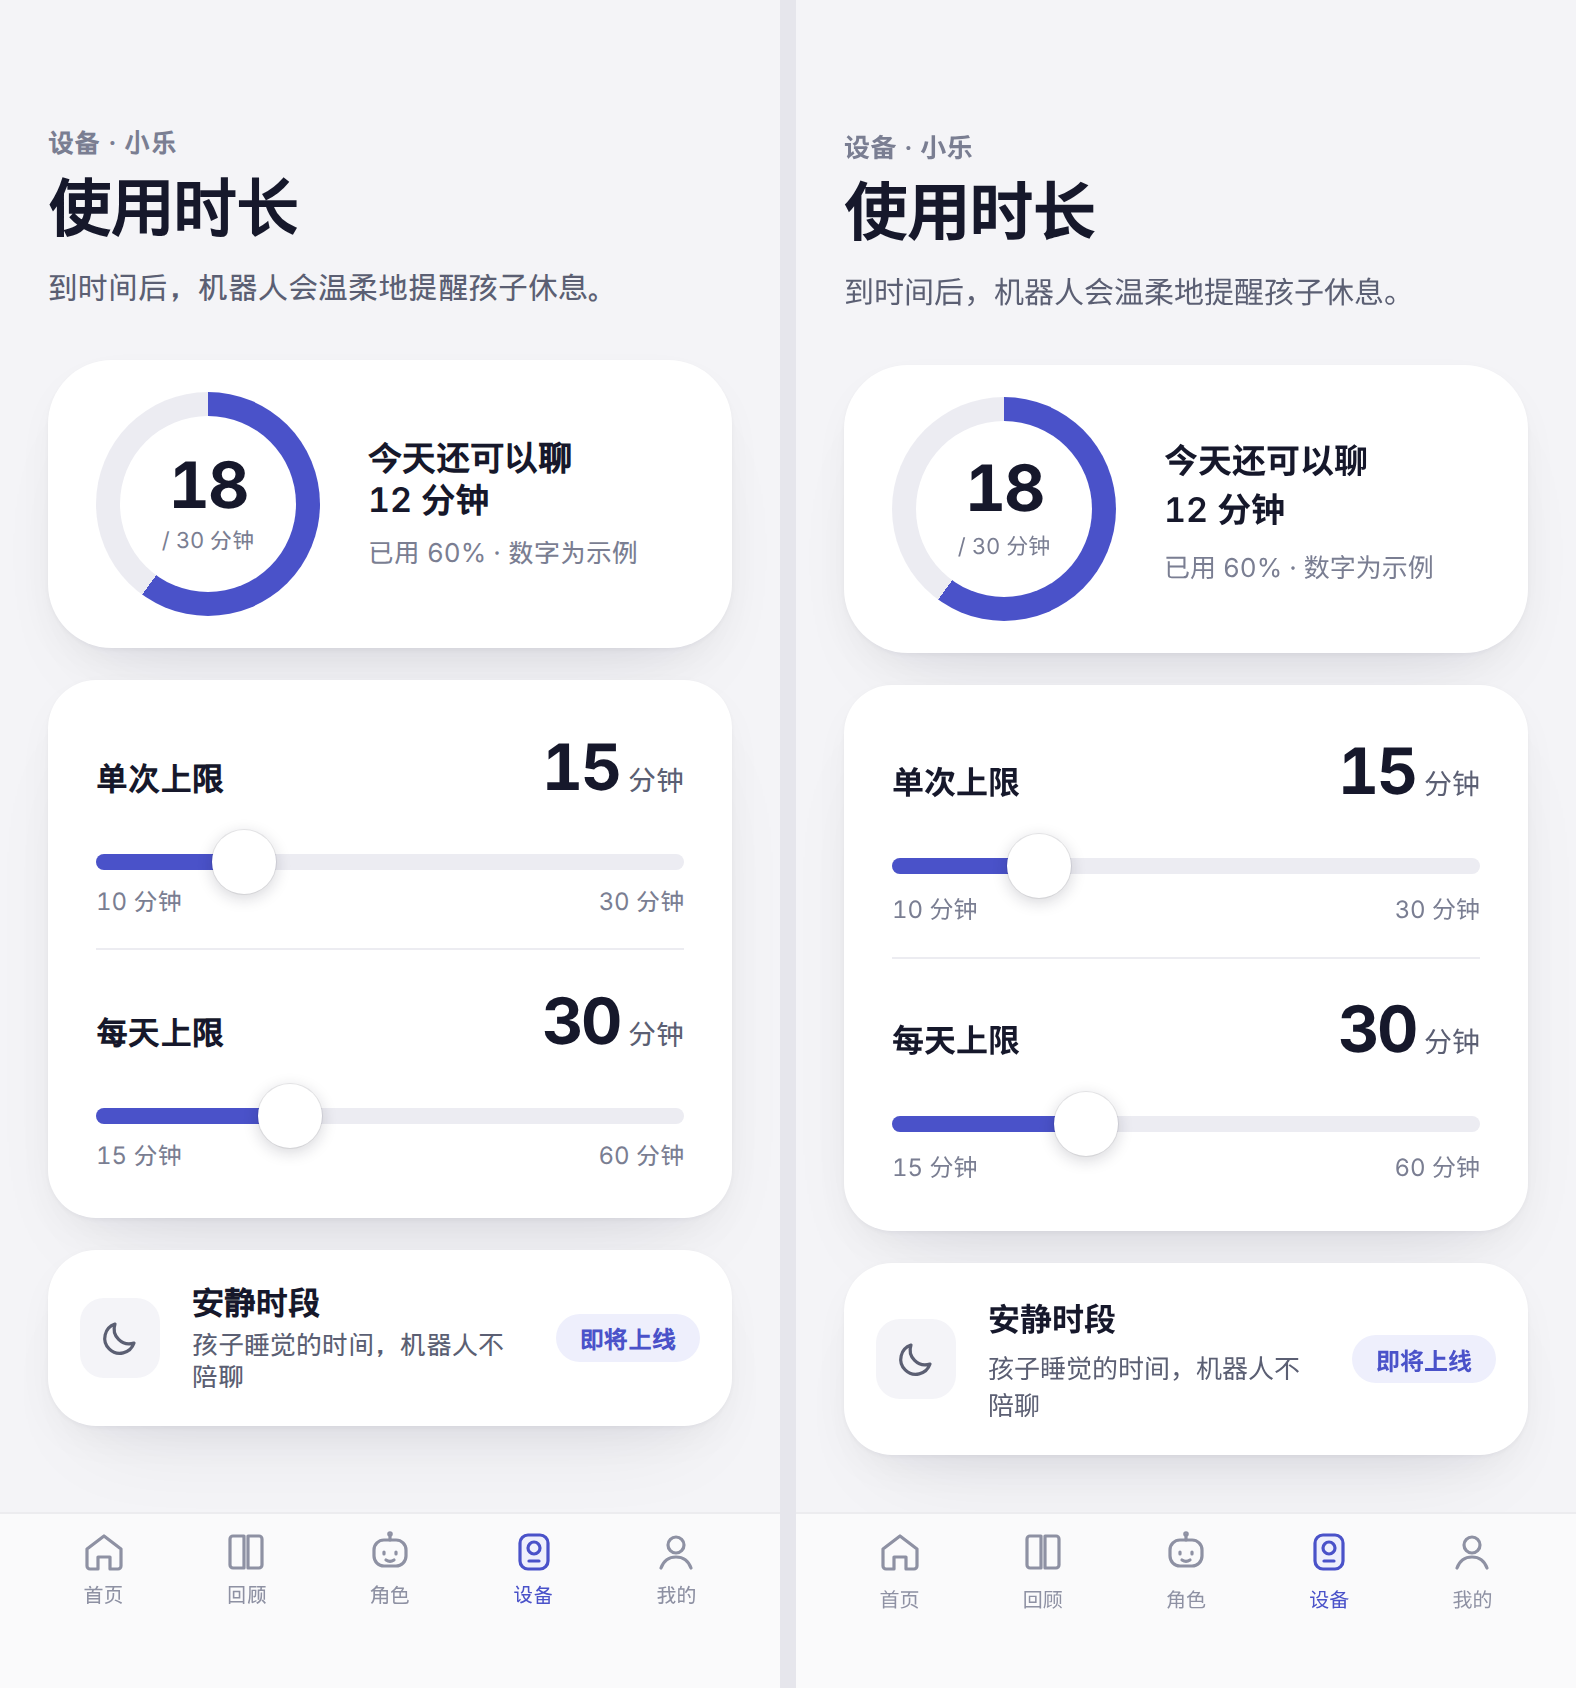
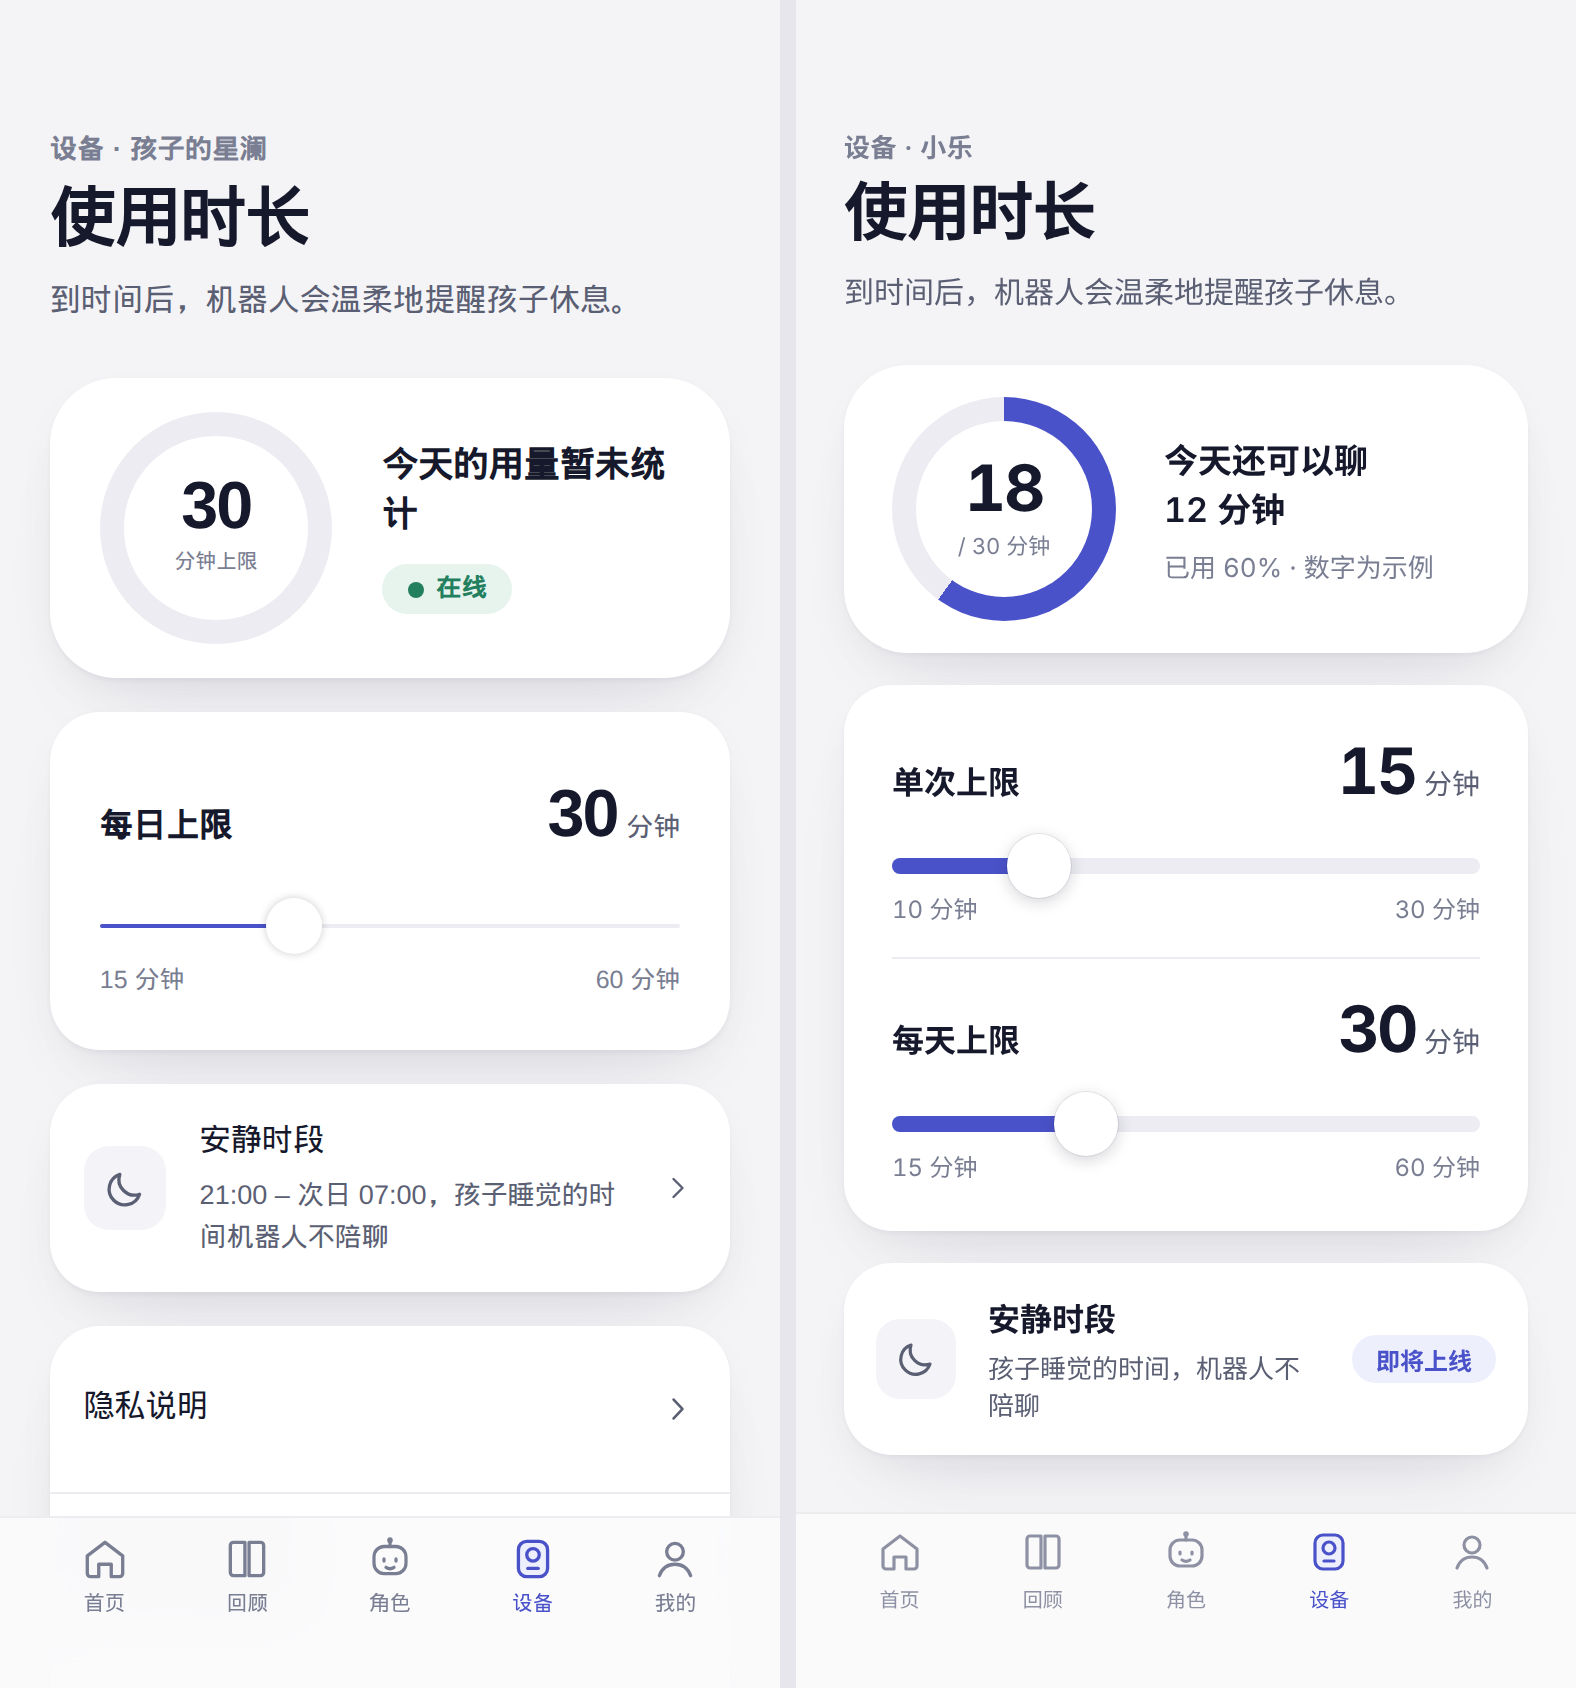
feat(miniprogram): v4 usage screen on device page
Empty usage ring with the real session limit (no used-minutes field exists),
one daily-limit slider, quiet-hours card with the editable value, privacy rows
with chevrons. Drops the retention line.

diff --git a/apps/miniprogram/pages/device/index.js b/apps/miniprogram/pages/device/index.js
@@ -23,7 +23,7 @@ const {
   confirmUnusualQuietHours,
 } = require("../../utils/quiet-hours");
 const { offersSafetySubscribe } = require("../../utils/trial-device-card");
-const { BACKUP_RETENTION_LINE, PRIVACY_LINE } = require("../../utils/child-memory");
+const { PRIVACY_LINE } = require("../../utils/child-memory");
 const { SUBSCRIPTION_PUSH_ENABLED } = require("../../config");
 
 // 与绑定页的「单次使用时长」选项一致。
@@ -307,7 +307,6 @@ Page({
     safetySubscribeOffCaption: "",
     safetySubscribeHelper: guardianPush.SAFETY_SUBSCRIBE_HELPER,
     privacyNote: PRIVACY_LINE,
-    backupRetentionLine: BACKUP_RETENTION_LINE,
     guardianExportVisible: false,
     limitsSheetVisible: false,
     limitsSaving: false,
@@ -992,7 +991,6 @@ Page({
         guardianExportVisible: offersSafetySubscribe(binding),
         safetySubscribeHelper: guardianPush.SAFETY_SUBSCRIBE_HELPER,
         privacyNote: PRIVACY_LINE,
-    backupRetentionLine: BACKUP_RETENTION_LINE,
         elderAlerts: [],
         subjectAliasLabel,
         personaRows: personaRows(
